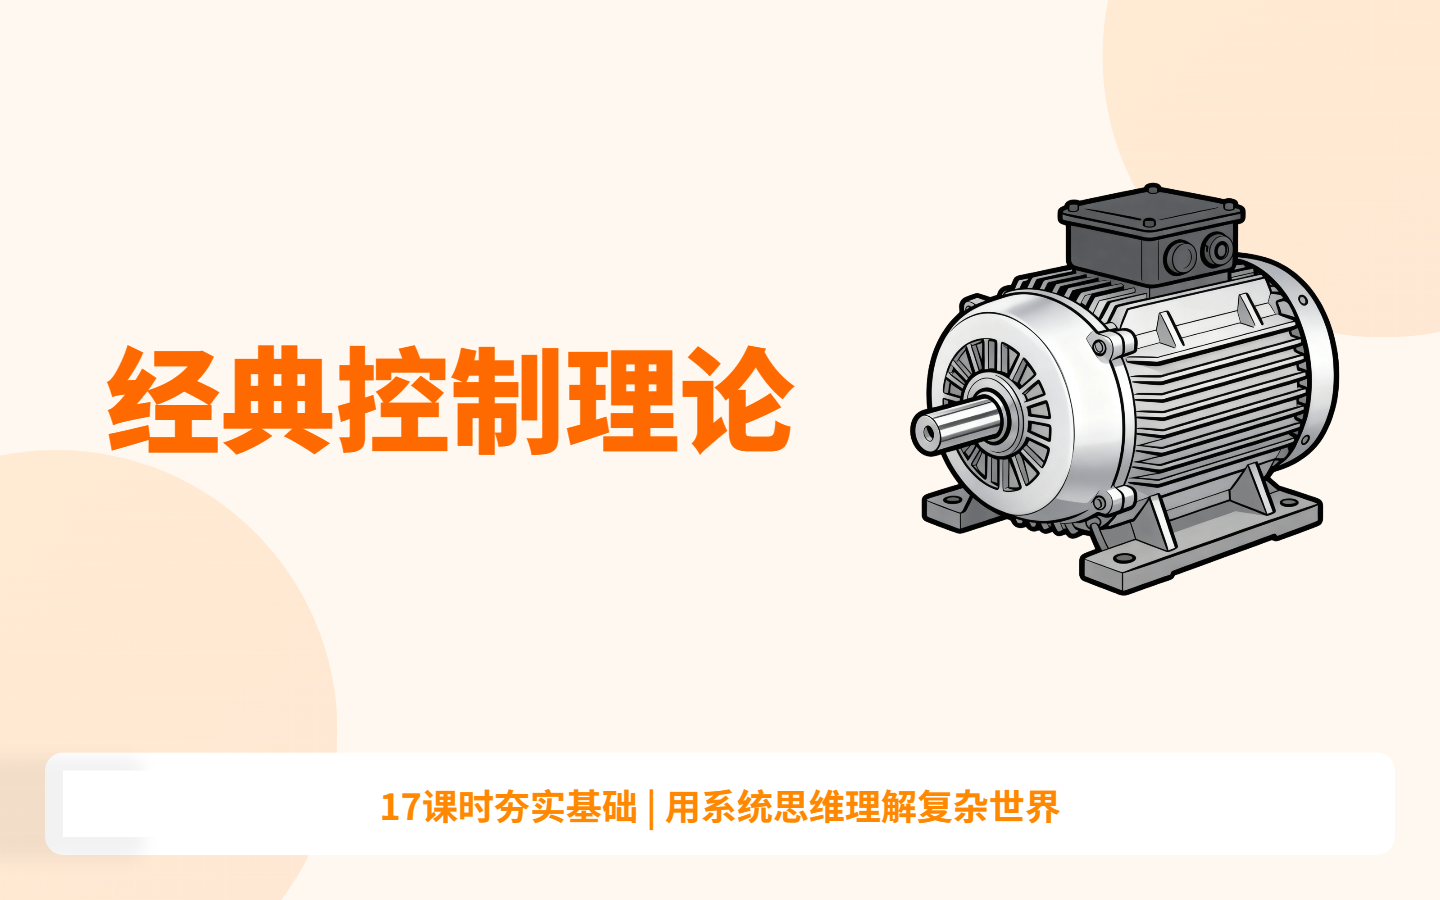
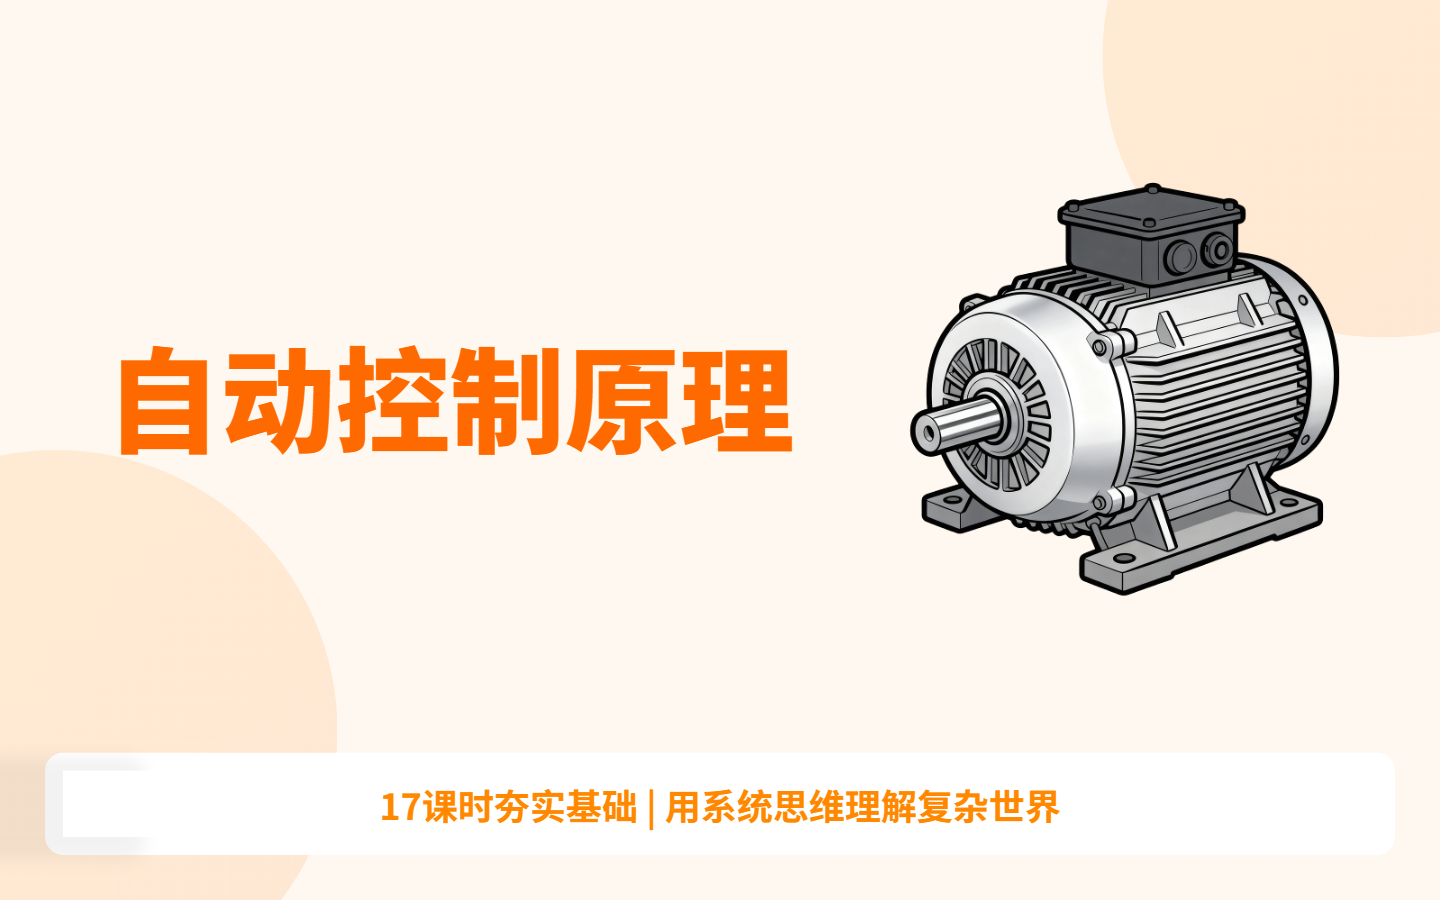
Update lecture title in About section to reflect accurate course content

diff --git a/src/global/about.ts b/src/global/about.ts
@@ -118,7 +118,7 @@ export namespace About {
                 { label: 'TBA', url: '' }
             ],
             venue: '',
-            title: '经典控制理论：系统建模、分析与控制',
+            title: '自动控制原理：系统建模、分析与控制',
             details: '本课程从数学模型基础出发，系统讲解控制系统的时域分析、根轨迹法和频率响应法三大核心分析方法，最终深入控制器设计。通过本课程，您将掌握分析、设计和优化控制系统的方法论，将系统思维应用于实际工程领域，真正理解如何让动态系统稳定、快速、精确地运行。'
         },
         {
